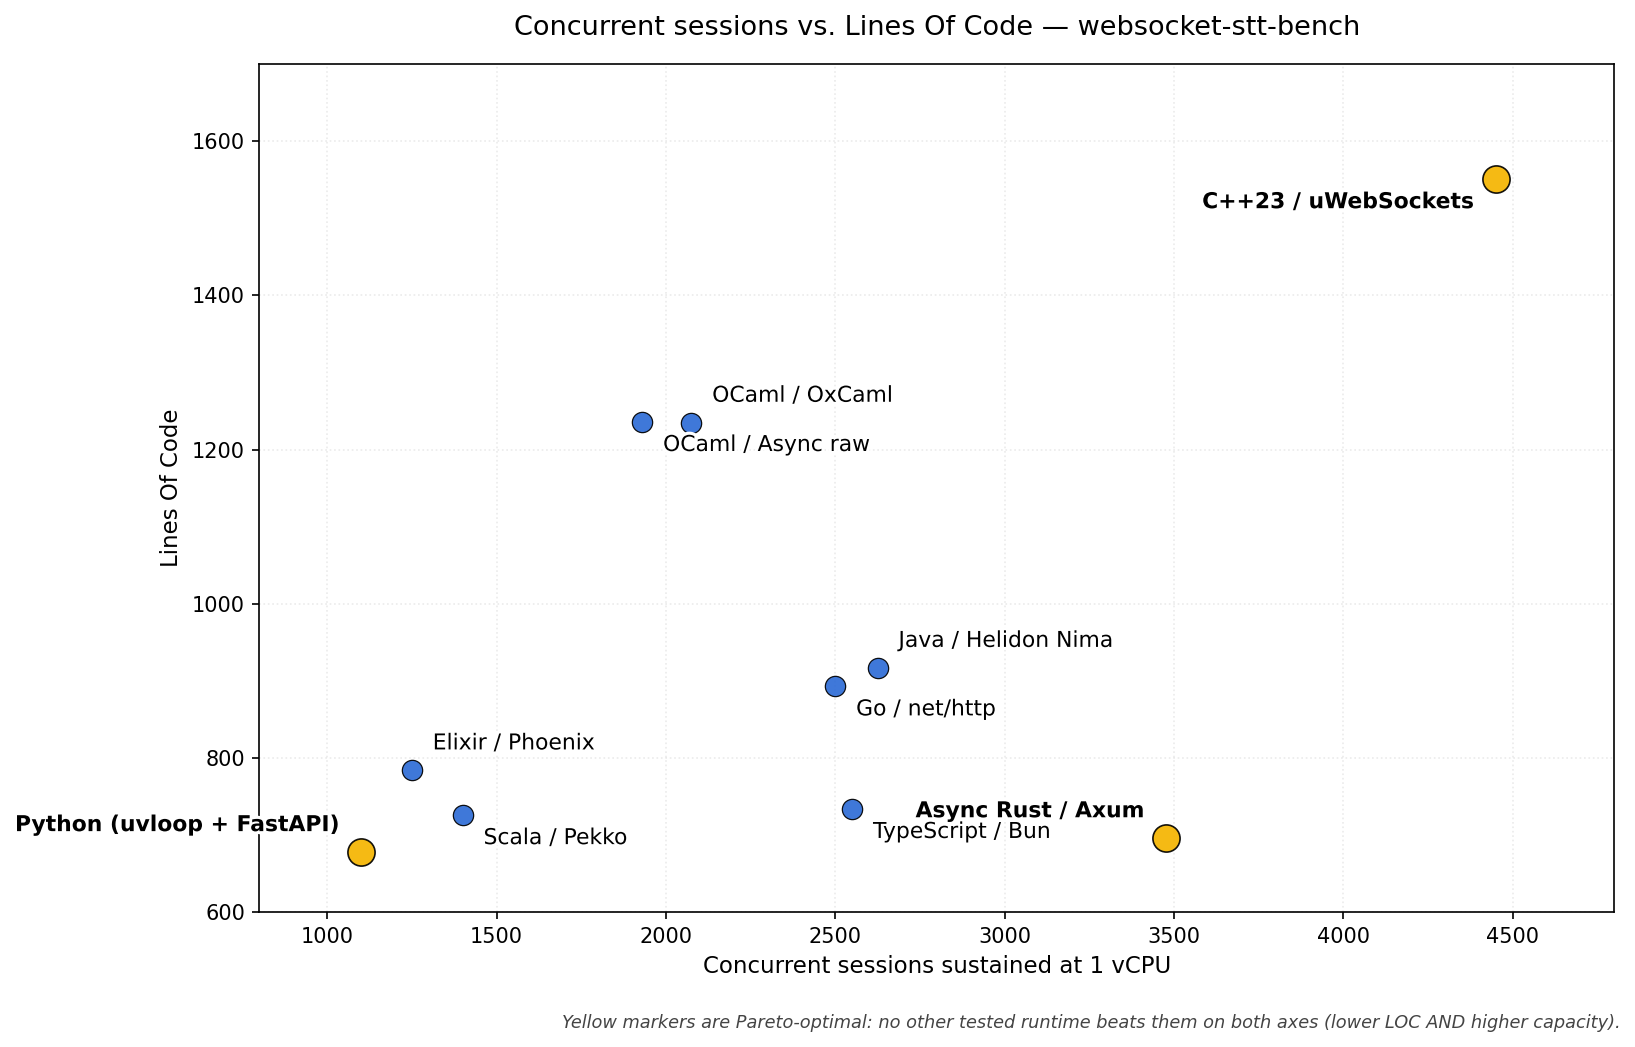
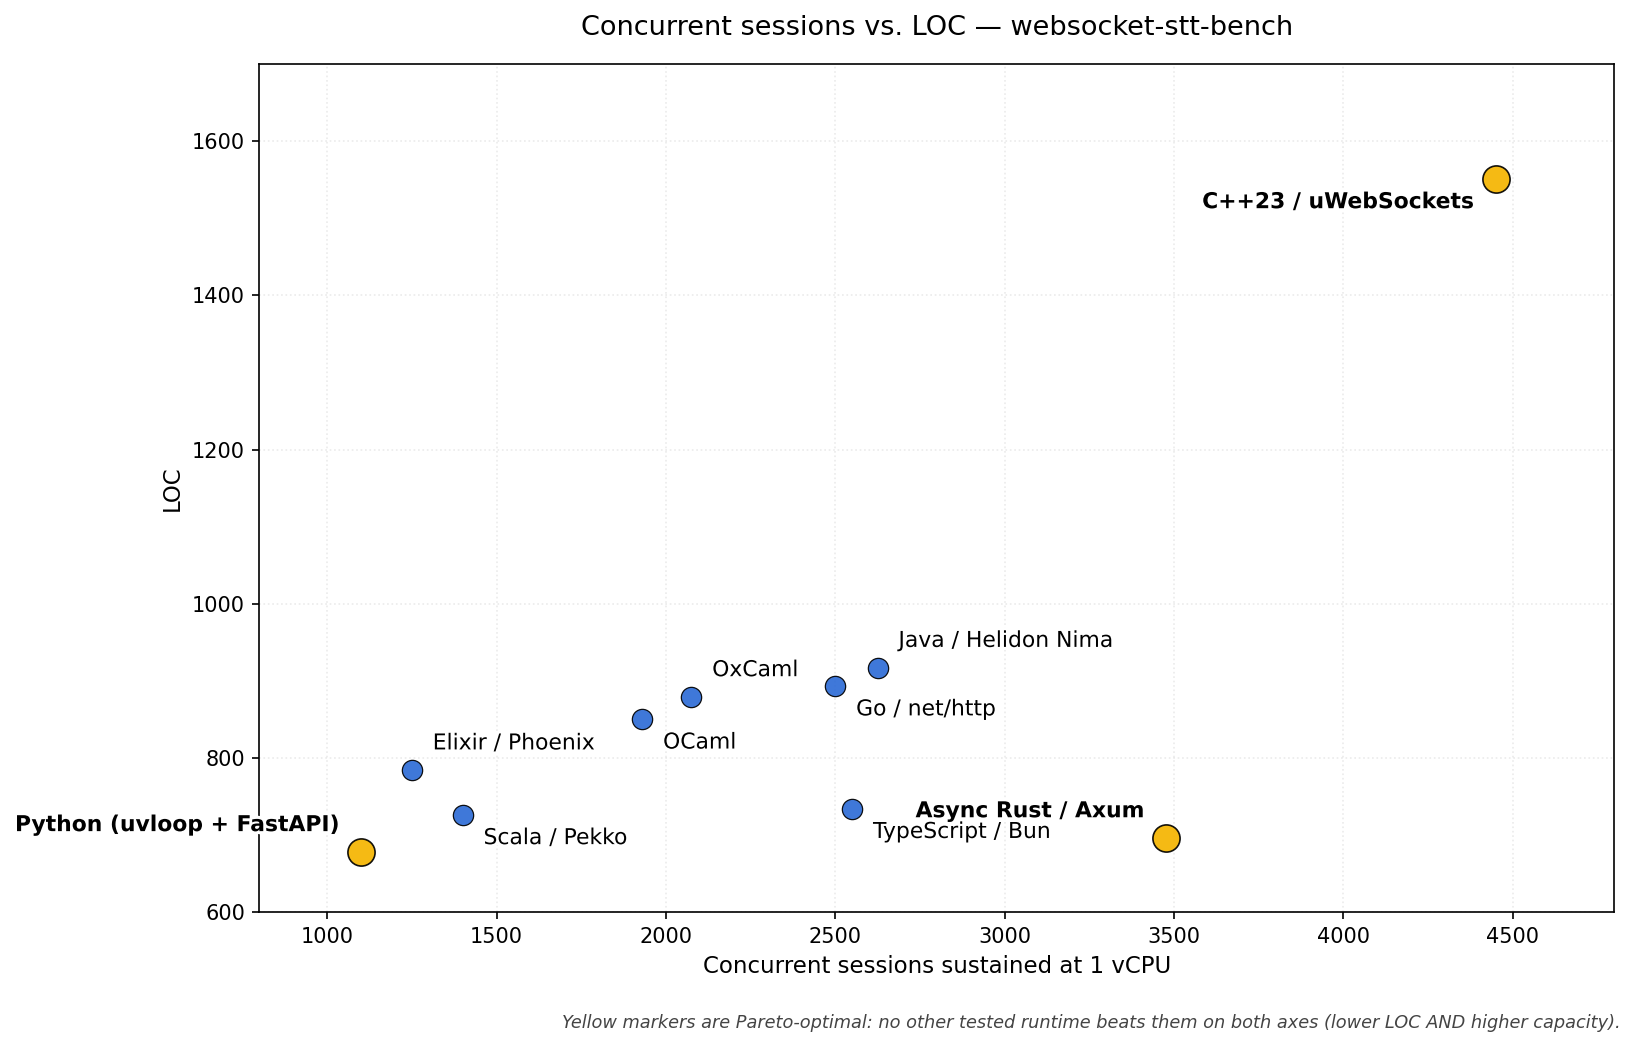
Make OxCaml LOC comparison fair

diff --git a/analysis/stt_analysis/comparison_chart_gen.py b/analysis/stt_analysis/comparison_chart_gen.py
@@ -23,15 +23,18 @@ matplotlib.use("Agg")
 import matplotlib.patheffects as pe
 import matplotlib.pyplot as plt
 
-# (name, sessions at 1 vCPU, LOC, label dx_pts, dy_pts, horizontal alignment)
+# (name, sessions at 1 vCPU, application LOC, label dx_pts, dy_pts, horizontal alignment)
+# For most runtimes, application LOC equals raw production LOC. The two OCaml
+# raw-transport variants exclude the generic first-party
+# WebSocket/HTTP/SHA-1/base64 shim so package code is treated consistently.
 RUNTIMES: list[tuple[str, int, int, int, int, str]] = [
     ("C++23 / uWebSockets", 4450, 1551, -10, -14, "right"),
     ("Async Rust / Axum", 3475, 696, -10, 10, "right"),
     ("Java / Helidon Nima", 2625, 917, 10, 10, "left"),
     ("TypeScript / Bun", 2550, 734, 10, -14, "left"),
     ("Go / net/http", 2500, 893, 10, -14, "left"),
-    ("OCaml / OxCaml", 2075, 1235, 10, 10, "left"),
-    ("OCaml / Async raw", 1930, 1236, 10, -14, "left"),
+    ("OxCaml", 2075, 879, 10, 10, "left"),
+    ("OCaml", 1930, 850, 10, -14, "left"),
     ("Scala / Pekko", 1400, 726, 10, -14, "left"),
     ("Elixir / Phoenix", 1250, 784, 10, 10, "left"),
     ("Python (uvloop + FastAPI)", 1100, 678, -10, 10, "right"),
@@ -76,9 +79,9 @@ def render(out_path: Path) -> None:
         )
 
     ax.set_xlabel("Concurrent sessions sustained at 1 vCPU", fontsize=11)
-    ax.set_ylabel("Lines Of Code", fontsize=11)
+    ax.set_ylabel("LOC", fontsize=11)
     ax.set_title(
-        "Concurrent sessions vs. Lines Of Code — websocket-stt-bench",
+        "Concurrent sessions vs. LOC — websocket-stt-bench",
         fontsize=13,
         pad=14,
     )

diff --git a/README.md b/README.md
@@ -21,19 +21,19 @@ Inspired by the [Benchmarks Game](https://benchmarksgame-team.pages.debian.net/b
 
 ## TL;DR
 
-![Concurrent sessions vs. Lines Of Code at 1 vCPU](docs/loc-vs-capacity.png)
+![Concurrent sessions vs. LOC at 1 vCPU](docs/loc-vs-capacity.png)
 
 *Concurrent WebSocket sessions sustained inside the [SLO](#the-slo-what-passing-means):*
 
-| Runtime | 1 vCPU | 2 vCPU | Bottleneck | LOC | Details |
+| Runtime | 1 vCPU | 2 vCPU | Bottleneck | App LOC | Details |
 |---|---:|---:|---|---:|---|
 | **[C++23](https://en.cppreference.com/w/cpp/23) + [uWebSockets 20.77](https://github.com/uNetworking/uWebSockets)** | **4450** | **TBD** | CPU/latency | 1.6k | [runs](services/cpp23-uwebsockets/BENCHMARK.md) |
 | **[Rust 1.95](https://github.com/rust-lang/rust) + async [Axum](https://github.com/tokio-rs/axum) / [Tokio](https://github.com/tokio-rs/tokio)** | **3475** | **4250** (1.22X) | CPU | 696 | [runs](services/rust-axum/BENCHMARK.md) |
 | **[Java 25 LTS](https://openjdk.org/projects/jdk/25/) + [Helidon Níma 4.3](https://helidon.io/)** | 2625‡ | 3750 (1.43X) | latency, then heap/OOM cliff | 917 | [runs](services/java-helidon-nima/BENCHMARK.md) |
 | **[TypeScript](https://www.typescriptlang.org/) on [Bun 1.3.13](https://bun.sh/)** | 2550‡ | n/a | memory/error cliff; fetch caveat | 734 | [runs](services/typescript-bun/BENCHMARK.md) |
 | **[Go 1.26.3](https://go.dev/) + `net/http` / [`coder/websocket`](https://github.com/coder/websocket)** | 2500‡ | 4000 (1.60X) | CPU/latency | 893 | [runs](services/go-nethttp/BENCHMARK.md) |
-| **[OxCaml 5.2.0+ox](https://oxcaml.org/) + Async** | 2075 | 3350§ (replicas) | CPU, single Async domain | 1235 | [runs](services/ocaml-oxcaml/BENCHMARK.md) |
-| **OCaml 5.4.1 + Async** | 1930 | TBD | CPU, single Async domain | 1236 | [runs](services/ocaml-websocket-async/BENCHMARK.md) |
+| **[OxCaml 5.2.0+ox](https://oxcaml.org/) + Async** | 2075 | 3350§ (replicas) | CPU, single Async domain | 879 | [runs](services/ocaml-oxcaml/BENCHMARK.md) |
+| **OCaml 5.4.1 + Async** | 1930 | TBD | CPU, single Async domain | 850 | [runs](services/ocaml-websocket-async/BENCHMARK.md) |
 | **[Scala 3.3 LTS](https://www.scala-lang.org/) + [Apache Pekko 1.6](https://pekko.apache.org/)** | 1400 | 2200 (1.57X) | connect timeouts | 726 | [runs](services/scala-pekko/BENCHMARK.md) |
 | **[Elixir 1.19.5](https://github.com/elixir-lang/elixir) + [Phoenix](https://github.com/phoenixframework/phoenix) / [Bandit](https://github.com/mtrudel/bandit)** | 1250 | 2250 (1.80X) | CPU/memory | 784 | [runs](services/elixir-phoenix/BENCHMARK.md) |
 | **[CPython 3.14.4](https://github.com/python/cpython) + uvloop + FastAPI / Granian** | 1100 | 1750 (1.59X)† | CPU | 678 | [runs](services/python-fastapi/BENCHMARK.md) |
@@ -42,6 +42,7 @@ Inspired by the [Benchmarks Game](https://benchmarksgame-team.pages.debian.net/b
 † Python scales out at 2 vCPU by adding worker processes; each Granian worker owns one asyncio loop.
 ‡ 1 vCPU / 2 GiB memory. The 1 GiB shape also OOMs near the edge, so the bumped 2 GiB shape is reported.
 § OxCaml runs one Async domain; a 2-vCPU pod does not use the second core meaningfully. Replica fan-out reached 3350 / 1.61X.
+LOC note: the TL;DR and chart use application LOC. For both OCaml raw-transport variants, that excludes the generic first-party WebSocket/HTTP/SHA-1/base64 transport shim that package-backed runtimes get from dependencies. Comments and blank lines are not counted.
 
 The above numbers are the highest confirmed session counts that passed the SLO at the given vCPU shape. Detailed brackets, tables, and run notes live in the linked service benchmark docs.
 
@@ -113,17 +114,19 @@ flowchart LR
 
 ## Code Shape
 
-| Runtime | Raw production LOC | Files | Implementation shape |
-|---|---:|---:|---|
-| Python | 678 | 9 | Pydantic boundaries, uvloop/FastAPI, dual GIL/free-threaded runtime path |
-| Async Rust/Axum | 696 | 6 | Tokio tasks, `Arc<Semaphore>::new(1)`, zero-copy `BytesMut` batching |
-| TypeScript/Bun | 734 | 6 | `Bun.serve`, Valibot boundaries, bounded outbox |
-| Elixir | 784 | 13 | Phoenix/Bandit raw `WebSock`, process-per-connection |
-| Go | 893 | 6 | `net/http`, `coder/websocket`, h2c inference client |
-| Java | 917 | 16 | Helidon Níma virtual threads, sealed outbound messages |
-| Stock OCaml/Async | 1236 | 25 | raw `Async.Tcp`, hand-rolled RFC 6455, structural one-inflight flush loop |
-| OxCaml | 1235 | 21 | raw `Async.Tcp`, hand-rolled RFC 6455, opaque inflight capability |
-| C++23 | 1551 | 11 | uWebSockets loop-per-thread, libcurl HTTP/2, Glaze JSON |
+| Runtime | App LOC | Raw production LOC | Files | Implementation shape |
+|---|---:|---:|---:|---|
+| Python | 678 | 678 | 9 | Pydantic boundaries, uvloop/FastAPI, dual GIL/free-threaded runtime path |
+| Async Rust/Axum | 696 | 696 | 6 | Tokio tasks, `Arc<Semaphore>::new(1)`, zero-copy `BytesMut` batching |
+| TypeScript/Bun | 734 | 734 | 6 | `Bun.serve`, Valibot boundaries, bounded outbox |
+| Elixir | 784 | 784 | 13 | Phoenix/Bandit raw `WebSock`, process-per-connection |
+| Go | 893 | 893 | 6 | `net/http`, `coder/websocket`, h2c inference client |
+| Java | 917 | 917 | 16 | Helidon Níma virtual threads, sealed outbound messages |
+| Stock OCaml/Async | 850 | 1220 | 25 | raw `Async.Tcp`, hand-rolled RFC 6455, structural one-inflight flush loop |
+| OxCaml | 879 | 1244 | 21 | raw `Async.Tcp`, hand-rolled RFC 6455, opaque inflight capability |
+| C++23 | 1551 | 1551 | 11 | uWebSockets loop-per-thread, libcurl HTTP/2, Glaze JSON |
+
+Application LOC is the chart count: code-only production lines after excluding blank/comment lines. For the two OCaml raw-transport variants, it also excludes the generic first-party transport/crypto shim (`Base64`, `Sha1`, `Http1`, `Websocket_frame`, `Websocket_handshake`) that package-backed runtimes get from dependencies. Raw production LOC keeps every shipped first-party production line, including that shim.
 
 The load-bearing invariant is one in-flight inference request per connection. Every implementation enforces it, but the expression differs: semaphore, atomic flag, token channel, process state, task guard, sequential flush loop, or `Mvar`-backed capability.
 

diff --git a/services/ocaml-oxcaml/BENCHMARK.md b/services/ocaml-oxcaml/BENCHMARK.md
@@ -12,9 +12,11 @@ OxCaml reached the Go/Bun tier only after raw transport work: fresh inference co
 
 ## Implementation Shape
 
-Raw production size: 1235 LOC across 21 files.
+Application size: 879 LOC. Raw production size: 1244 LOC across 21 files.
 
 The gateway uses raw `Async.Tcp`, hand-rolled RFC 6455 framing plus SHA-1/base64, and HTTP/1.1 keep-alive to inference. The inflight invariant is represented as an opaque mint-once `Inflight_capability.t`, backed at runtime by an `Async.Mvar`.
+
+The README chart uses application LOC for cross-runtime fairness. For OxCaml, that excludes 365 code-only lines of generic first-party transport/crypto shim (`Base64`, `Sha1`, `Http1`, `Websocket_frame`, `Websocket_handshake`) that package-backed runtimes get from dependencies. The raw production count still includes that shipped code. Comments and blank lines are not counted.
 
 An attempted `@ unique` compile-time proof did not survive `Async`'s un-mode-annotated `Mvar`/`Deferred` boundary, so the shipped invariant is a type-shaped runtime guard, not a compiler proof. `janestreet/parallel` does not lift gateway capacity because its `parallel` requires an `@ once portable` closure and Async sockets are domain-pinned.
 

diff --git a/services/ocaml-websocket-async/BENCHMARK.md b/services/ocaml-websocket-async/BENCHMARK.md
@@ -11,9 +11,11 @@ The stock OCaml gateway is the upstream OCaml comparison against the OxCaml buil
 
 ## Implementation Shape
 
-Raw production size: 1236 LOC across 25 files.
+Application size: 850 LOC. Raw production size: 1220 LOC across 25 files.
 
 The gateway uses stock OCaml 5.4.1, Jane Street Async, raw `Async.Tcp`, hand-rolled RFC 6455 framing plus SHA-1/base64, and HTTP/1.1 keep-alive to inference. It intentionally does not use OxCaml's mode system. The one-inflight invariant is structural: the per-session flush loop awaits inference before taking the next batch.
+
+The README chart uses application LOC for cross-runtime fairness. For stock OCaml, that excludes 370 code-only lines of generic first-party transport/crypto shim (`Base64`, `Sha1`, `Http1`, `Websocket_frame`, `Websocket_handshake`) that package-backed runtimes get from dependencies. The raw production count still includes that shipped code. Comments and blank lines are not counted.
 
 `WORKER_THREADS` and `INFERENCE_HTTP_CLIENTS` are env-contract no-ops for this service; the gateway remains one Async domain.
 